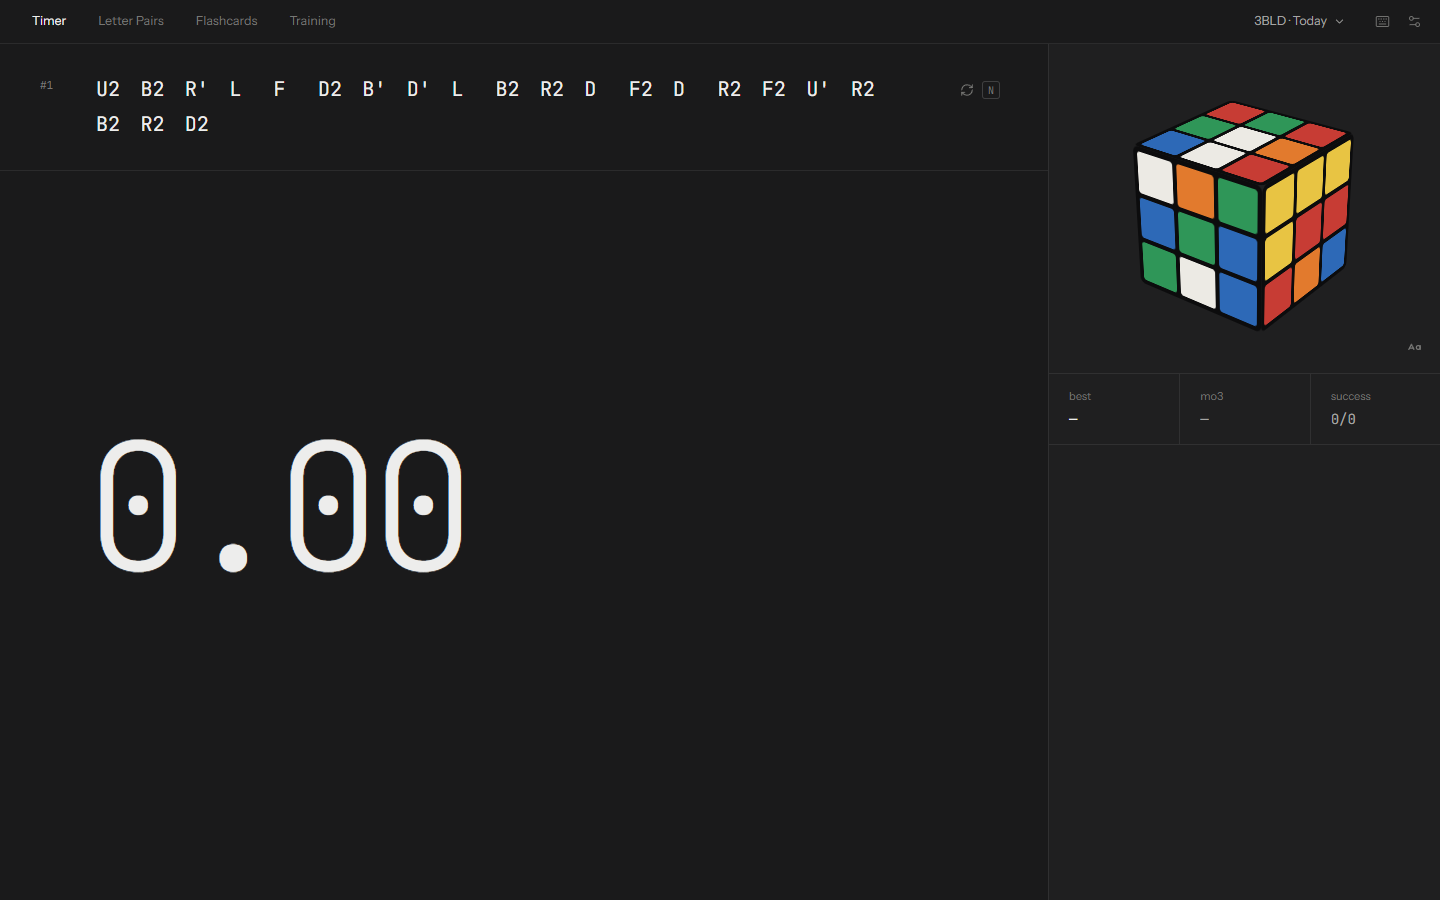
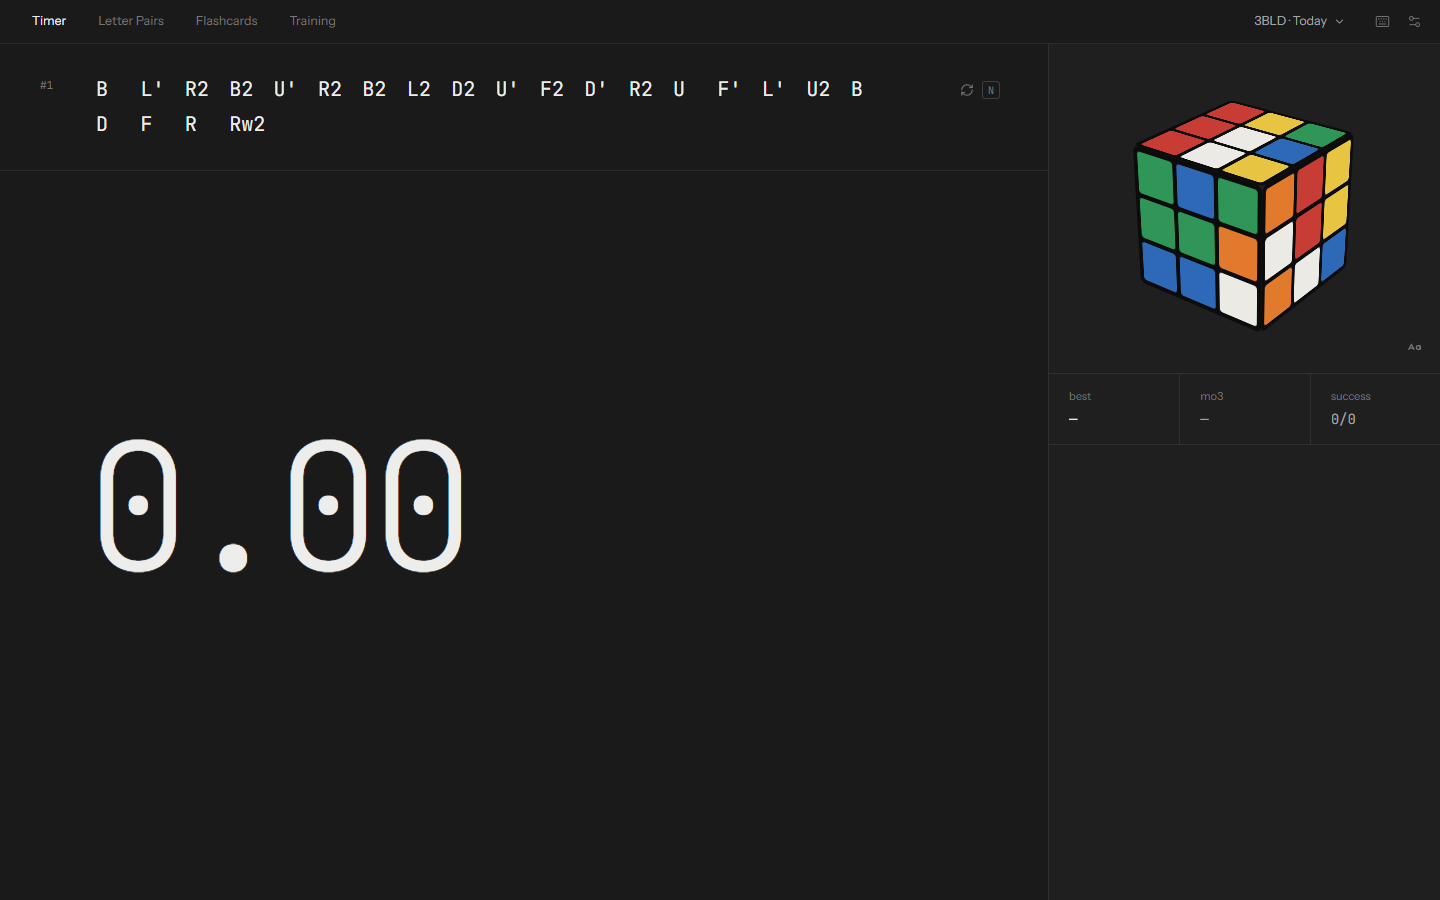
fix timer cube orientation and sticker lettering

diff --git a/src/magic/components/cube/Cube3D.tsx b/src/magic/components/cube/Cube3D.tsx
@@ -7,11 +7,12 @@ import {
   STICKER_COLORS,
   STICKER_TEXT,
   letterFor,
+  physicalStickerAt,
   slotType } from
 '../../utils/cube';
 import { useAppData, useDefaultView } from '../../contexts/AppDataContext';
 import { CubeViewPref } from '../../types/app';
-import { viewTransform } from '../../utils/view';
+import { viewForScrambledCenters, viewTransform } from '../../utils/view';
 
 export interface CubeHighlight {
   type: PieceType;
@@ -50,6 +51,7 @@ export function Cube3D({
   const savedView = useDefaultView();
   const { setup } = useAppData();
   const camera = view ?? savedView;
+  const stateCamera = viewForScrambledCenters(state, camera);
   const DEFAULT_ROT = initialRot;
   const [rot, setRot] = useState(DEFAULT_ROT);
   const signature = FACES.map((f) => state[f].join('')).join('');
@@ -118,19 +120,21 @@ export function Cube3D({
       onDoubleClick={() => setRot(DEFAULT_ROT)}
       onKeyDown={onKeyDown}
       className={`relative touch-none select-none ${dragging ? 'cursor-grabbing' : 'cursor-grab'} ${className}`}
+      data-cube-view={`${camera.top}/${camera.front}`}
       style={{ width: size, height: size, perspective: size * 3.4 }}>
       
       <div
         className="absolute inset-0"
         style={{
           transformStyle: 'preserve-3d',
-          transform: `rotateX(${rot.x}deg) rotateY(${rot.y}deg) ${viewTransform(camera)}`,
+          transform: `rotateX(${rot.x}deg) rotateY(${rot.y}deg) ${viewTransform(stateCamera)}`,
           transition: dragging ? 'none' : 'transform 260ms cubic-bezier(0.23, 1, 0.32, 1)'
         }}>
         
         {FACES.map((face) =>
         <div
           key={face}
+          data-face={face}
           className="absolute grid"
           style={{
             left: (size - S) / 2,
@@ -148,7 +152,8 @@ export function Cube3D({
           
             {state[face].map((color, i) => {
             const type = slotType(i);
-            const letter = type ? setup.scheme[`${face}${i}`] ?? letterFor(face, i, type) : null;
+            const stickerId = type ? physicalStickerAt(state, face, i) : null;
+            const letter = type && stickerId ? setup.scheme[stickerId] ?? letterFor(stickerId[0] as Face, Number(stickerId.slice(1)), type) : null;
             const isOption = !!highlight && !!letter && highlight.type === type && highlight.letters.includes(letter);
             const bg = STICKER_COLORS[color];
             if (isOption && letter) {
@@ -157,6 +162,7 @@ export function Cube3D({
               return (
                 <button
                   key={i}
+                  data-sticker-id={stickerId ?? undefined}
                   type="button"
                   aria-label={`Sticker ${letter}`}
                   aria-pressed={selected}
@@ -183,6 +189,7 @@ export function Cube3D({
             return (
               <div
                 key={i}
+                data-sticker-id={stickerId ?? undefined}
                 className="flex items-center justify-center font-mono"
                 style={{
                   background: bg,

diff --git a/src/magic/utils/cube.ts b/src/magic/utils/cube.ts
@@ -104,6 +104,39 @@ export function slotType(index: number): PieceType | null {
   return null;
 }
 
+/**
+ * Return the physical sticker occupying a rendered facelet.
+ *
+ * Lettering belongs to stickers, not locations. A scramble moves the U2
+ * sticker away from U2, so a renderer must follow the cubie colours back to
+ * that sticker's home face and slot before looking up the user's token.
+ */
+export function physicalStickerAt(state: CubeState, face: Face, index: number): string | null {
+  const type = slotType(index);
+  if (!type) return null;
+
+  const location = slotPosition(face, Math.floor(index / 3), index % 3);
+  const homePosition: Vec = [0, 0, 0];
+
+  FACES.forEach((side) => {
+    const sideIndex = slotIndex(side, location);
+    if (
+      sideIndex < 0 ||
+      slotType(sideIndex) !== type ||
+      !slotPosition(side, Math.floor(sideIndex / 3), sideIndex % 3).every((value, axis) => value === location[axis])
+    ) return;
+    const homeFace = state[side][sideIndex];
+    const normal = NORMALS[homeFace];
+    homePosition[0] += normal[0];
+    homePosition[1] += normal[1];
+    homePosition[2] += normal[2];
+  });
+
+  const homeFace = state[face][index];
+  const homeIndex = slotIndex(homeFace, homePosition);
+  return homeIndex >= 0 && slotType(homeIndex) === type ? `${homeFace}${homeIndex}` : null;
+}
+
 export function slotPosition(face: Face, r: number, c: number): Vec {
   switch (face) {
     case 'U':
@@ -159,5 +192,6 @@ function slotIndex(face: Face, [x, y, z]: Vec): number {
       r = 1 - y;
       break;
   }
+  if (![r, c].every((value) => Number.isInteger(value) && value >= 0 && value <= 2)) return -1;
   return r * 3 + c;
 }

diff --git a/src/magic/components/concepts/workspace/WorkspaceTimer.tsx b/src/magic/components/concepts/workspace/WorkspaceTimer.tsx
@@ -2,6 +2,7 @@ import React, { useState } from 'react';
 import { AnimatePresence } from 'framer-motion';
 import { CaseSensitiveIcon, ChevronDownIcon, RefreshCwIcon } from 'lucide-react';
 import { useTimerSession } from '../../../hooks/useTimerSession';
+import { useAppData } from '../../../contexts/AppDataContext';
 import { TimerPhase } from '../../../hooks/useTimer';
 import { ConceptProps } from '../../../types/solve';
 import { formatTime } from '../../../utils/time';
@@ -25,6 +26,7 @@ import { WorkspaceSolveDetails } from './WorkspaceSolveDetails';
  */
 export function WorkspaceTimer({ multiphase, stage }: ConceptProps) {
   const s = useTimerSession({ multiphase, stage });
+  const { prefs } = useAppData();
   const [letters, setLetters] = useState(false);
   const { phase } = s.timer;
   const recede = s.running ? 'opacity-[0.1]' : phase === 'ready' ? 'opacity-40' : '';
@@ -112,7 +114,7 @@ export function WorkspaceTimer({ multiphase, stage }: ConceptProps) {
 
         <aside className={`flex min-h-0 flex-col border-l border-line bg-surface transition-opacity duration-300 ease-out ${recede}`}>
           <div className="relative flex h-[330px] shrink-0 items-center justify-center border-b border-line">
-            <Cube3D state={s.cubeState} size={272} showLetters={letters} />
+            <Cube3D state={s.cubeState} size={272} showLetters={letters} view={prefs.defaultView} />
             <IconButton
               size="sm"
               label="Sticker letters"

diff --git a/src/magic/utils/view.test.ts b/src/magic/utils/view.test.ts
@@ -1,0 +1,29 @@
+import { describe, expect, it } from 'vitest';
+import { stateFromScramble } from './cube';
+import { applyView, COLOR_FACE, isValidView, viewForScrambledCenters } from './view';
+
+const NORMAL = {
+  U: [0, 1, 0], D: [0, -1, 0], F: [0, 0, 1], B: [0, 0, -1], R: [1, 0, 0], L: [-1, 0, 0],
+} as const;
+
+describe('default cube view', () => {
+  it('maps white to the top and orange to the front', () => {
+    const view = { top: 'white', front: 'orange' } as const;
+    expect(isValidView(view)).toBe(true);
+    expect(COLOR_FACE[view.top]).toBe('U');
+    expect(COLOR_FACE[view.front]).toBe('L');
+    expect(applyView(view, [...NORMAL.U])).toEqual([0, 1, 0]);
+    expect(applyView(view, [...NORMAL.L])).toEqual([0, 0, 1]);
+  });
+
+  it('keeps requested center colours top/front after wide scramble moves', () => {
+    const state = stateFromScramble("Rw' Dw2");
+    const desired = { top: 'white', front: 'orange' } as const;
+    const camera = viewForScrambledCenters(state, desired);
+    const topFace = (Object.keys(state) as Array<keyof typeof state>).find((face) => state[face][4] === 'U')!;
+    const frontFace = (Object.keys(state) as Array<keyof typeof state>).find((face) => state[face][4] === 'L')!;
+
+    expect(applyView(camera, [...NORMAL[topFace]])).toEqual([0, 1, 0]);
+    expect(applyView(camera, [...NORMAL[frontFace]])).toEqual([0, 0, 1]);
+  });
+});

diff --git a/src/magic/utils/cube.test.ts b/src/magic/utils/cube.test.ts
@@ -1,0 +1,31 @@
+import { describe, expect, it } from 'vitest';
+import { FACES, physicalStickerAt, slotType, stateFromScramble } from './cube';
+
+describe('physical sticker lettering', () => {
+  it('matches every sticker location on a solved cube', () => {
+    const state = stateFromScramble('');
+    FACES.forEach((face) => {
+      state[face].forEach((_, index) => {
+        if (slotType(index)) expect(physicalStickerAt(state, face, index)).toBe(`${face}${index}`);
+      });
+    });
+  });
+
+  it('moves the configured sticker identity with a scrambled cubie', () => {
+    const state = stateFromScramble('R');
+
+    // R sends the physical U2 sticker to the B6 display location.
+    expect(state.B[6]).toBe('U');
+    expect(physicalStickerAt(state, 'B', 6)).toBe('U2');
+    expect(physicalStickerAt(state, 'U', 2)).not.toBe('U2');
+  });
+
+  it('keeps every edge and corner identity unique after a scramble', () => {
+    const state = stateFromScramble("R U R' F2 D L2 B U2 F'");
+    const ids = FACES.flatMap((face) =>
+      state[face].map((_, index) => physicalStickerAt(state, face, index)).filter(Boolean)
+    );
+    expect(ids).toHaveLength(48);
+    expect(new Set(ids)).toHaveLength(48);
+  });
+});

diff --git a/src/magic/utils/view.ts b/src/magic/utils/view.ts
@@ -1,5 +1,5 @@
 import { CubeViewPref, FaceColor } from '../types/app';
-import { Face } from './cube';
+import { CubeState, FACES, Face } from './cube';
 
 type Vec = [number, number, number];
 
@@ -64,4 +64,20 @@ export function viewTransform(v: CubeViewPref): string {
 
 export function sameView(a: CubeViewPref, b: CubeViewPref) {
   return a.top === b.top && a.front === b.front;
+}
+
+/**
+ * Convert a colour preference into the current face frame of a scrambled cube.
+ * 3BLD scrambles may contain wide turns, so centers are not guaranteed to
+ * remain on their reference U/F/etc. faces even though the user still expects
+ * their chosen center colours to appear on top and at the front.
+ */
+export function viewForScrambledCenters(state: CubeState, desired: CubeViewPref): CubeViewPref {
+  const topColor = COLOR_FACE[desired.top];
+  const frontColor = COLOR_FACE[desired.front];
+  const topFace = FACES.find((face) => state[face][4] === topColor);
+  const frontFace = FACES.find((face) => state[face][4] === frontColor);
+  if (!topFace || !frontFace) return desired;
+  const adjusted = { top: FACE_COLOR[topFace], front: FACE_COLOR[frontFace] };
+  return isValidView(adjusted) ? adjusted : desired;
 }

diff --git a/e2e/latest-ui.spec.ts b/e2e/latest-ui.spec.ts
@@ -116,6 +116,8 @@ test('Default Cube View persists independently of the fixed scramble reference',
   const saved = await page.evaluate(() => JSON.parse(localStorage.getItem('cubeiq-bld-v2:guest')!).data);
   expect(saved.defaultCubeView).toEqual({ top: 'white', front: 'orange' });
   expect(saved.scheme.orientation).toEqual({ up: 'U', front: 'F' });
+  await page.goto('/');
+  await expect(page.getByRole('group', { name: 'Scrambled cube' })).toHaveAttribute('data-cube-view', 'white/orange');
 });
 
 test('auth surface exposes only WCA and Google and reports unconfigured WCA safely', async ({ page }) => {
